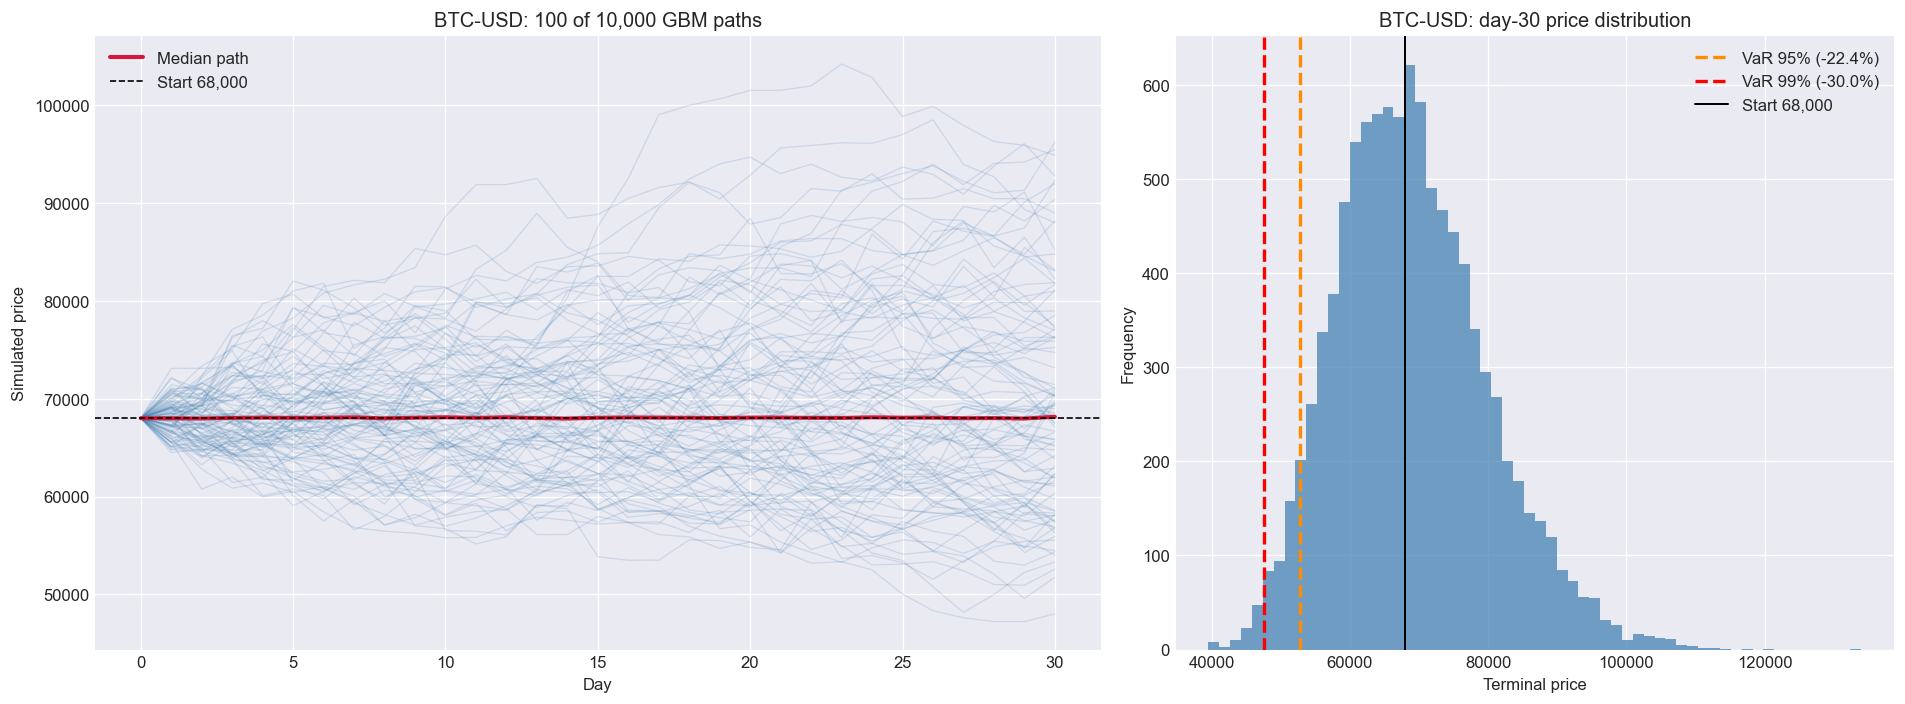
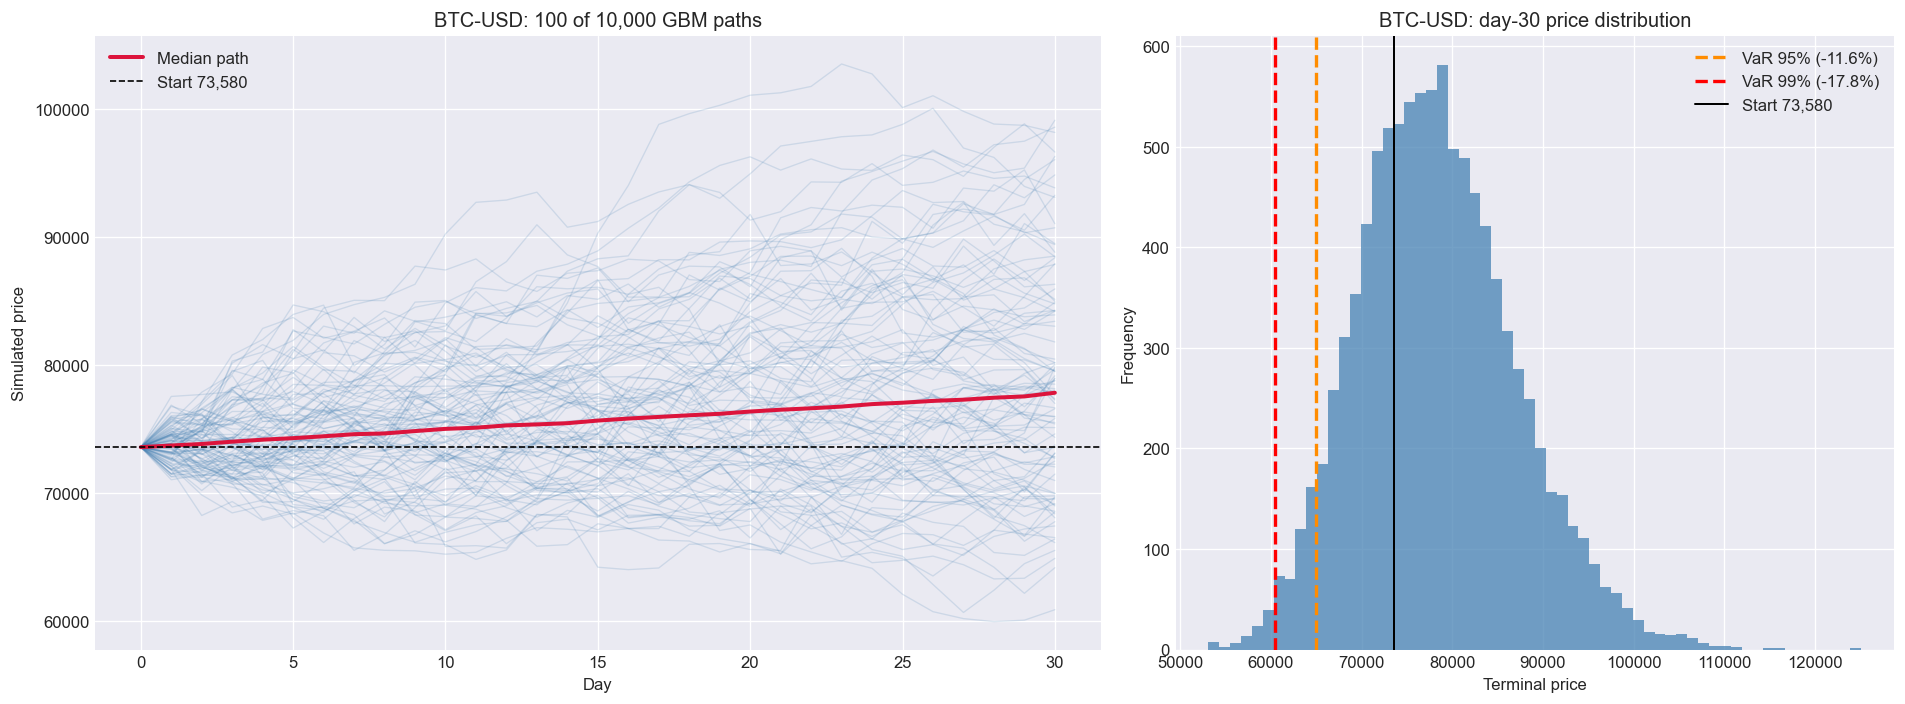
Napraw blokowanie wykresow w main, pelny pipeline warstw 0-3

diff --git a/report.py b/report.py
@@ -1,8 +1,9 @@
-"""Console reporting / CLI entry point for the Layer 2 ML forecasting package.
+"""Full-stack CLI pipeline for the hybrid crypto model (Layers 0–3).
 
-Holds the dependency-free table formatters and the :func:`main` pipeline that
-runs ``CryptoMLPredictor`` end to end and prints a readable report. Kept
-separate from the model logic so the library stays presentation-free.
+Runs data ingestion, statistical analysis (ADF + GARCH plots), ML forecasting,
+financial backtesting, Monte Carlo risk simulation (with plots), and optional
+model persistence. Console tables plus matplotlib figures are produced so the
+project demonstrates every implemented layer in one command.
 """
 
 from __future__ import annotations
@@ -10,12 +11,106 @@ from __future__ import annotations
 import warnings
 from typing import Any
 
+import matplotlib.pyplot as plt
 import numpy as np
 import pandas as pd
 
 from mlbase import DEFAULT_TICKERS
 from model import CryptoMLPredictor
 from risk_management import CryptoMonteCarloSimulator, SimulationResult, suggest_allocation
+from statistical_analysis import CryptoVolatilityModel
+
+
+def _ticker_slug(ticker: str) -> str:
+    """Return a filesystem-safe ticker symbol for plot filenames."""
+    return ticker.replace("-", "_")
+
+
+def _run_data_layer(predictor: CryptoMLPredictor) -> None:
+    """Summarise Layer 0: downloaded market data and engineered series."""
+    print("\n" + "=" * 72)
+    print("Layer 0 — Data (CryptoDataFetcher)")
+    print("=" * 72)
+    print(f"  Tickers   : {', '.join(predictor.tickers)}")
+    print(f"  Interval  : {predictor.interval}")
+    print(f"  Range     : {predictor.start} → {predictor.end}")
+    print(f"  Cache     : {predictor.cache_dir or 'disabled'}")
+
+    if predictor.log_returns is None or predictor.close_prices is None:
+        print("  Status    : data not loaded.")
+        return
+
+    n_rows = len(predictor.log_returns)
+    idx = predictor.log_returns.index
+    print(f"  Rows      : {n_rows} aligned observations")
+    print(f"  Dates     : {idx.min()} → {idx.max()}")
+    print(
+        f"  Last close: "
+        + ", ".join(
+            f"{t}={predictor.close_prices[t].dropna().iloc[-1]:,.2f}"
+            for t in predictor.tickers
+            if t in predictor.close_prices.columns
+        )
+    )
+
+
+def _run_statistical_layer(
+    predictor: CryptoMLPredictor,
+    *,
+    show_plots: bool = True,
+    save_plots: bool = True,
+) -> None:
+    """Run Layer 1: ADF stationarity checks and GARCH volatility charts."""
+    print("\n" + "=" * 72)
+    print("Layer 1 — Statistical Analysis (ADF + GARCH)")
+    print("=" * 72)
+
+    if predictor.log_returns is None:
+        warnings.warn(
+            "Log returns unavailable; skipping Layer 1.",
+            RuntimeWarning,
+            stacklevel=2,
+        )
+        return
+
+    vol_model = CryptoVolatilityModel(
+        predictor.log_returns,
+        trading_days=predictor.periods_per_year,
+    )
+
+    for ticker in predictor.tickers:
+        if ticker not in predictor.log_returns.columns:
+            continue
+
+        print(f"\n--- {ticker} ---")
+        try:
+            vol_model.check_stationarity(predictor.log_returns[ticker])
+            garch_result = vol_model.fit_garch(
+                predictor.log_returns[ticker], ticker=ticker
+            )
+            status = "converged" if garch_result.converged else "NOT converged"
+            print(f"  GARCH(1,1) fit: {status}")
+            latest_vol = garch_result.annualized_volatility.dropna().iloc[-1]
+            print(f"  Latest annualised conditional vol: {latest_vol:.2%}")
+
+            savepath = (
+                f"garch_{_ticker_slug(ticker)}.png" if save_plots else None
+            )
+            fig = vol_model.plot_volatility(
+                ticker,
+                show=show_plots,
+                savepath=savepath,
+            )
+            if not show_plots:
+                plt.close(fig)
+            if savepath:
+                print(f"  Saved chart: {savepath}")
+        except Exception as exc:  # pragma: no cover - plotting is best-effort
+            warnings.warn(
+                f"Layer 1 failed for {ticker} ({exc!r}); continuing.",
+                RuntimeWarning,
+                stacklevel=2,
+            )
 
 
 def _format_metrics(metrics: pd.DataFrame) -> str:
@@ -127,6 +222,9 @@ def _run_risk_layer(
     predictor: CryptoMLPredictor,
     horizon_days: int = 30,
     num_simulations: int = 10_000,
+    *,
+    show_plots: bool = False,
+    save_plots: bool = True,
 ) -> None:
     """Drive the Layer 3 Monte Carlo risk engine from live model outputs.
 
@@ -176,6 +274,28 @@ def _run_risk_layer(
             f"  Inputs: daily mu={mu:+.5f}, annual sigma={sigma:.2%}"
         )
 
+        plot_path = (
+            f"montecarlo_{_ticker_slug(ticker)}.png" if save_plots else None
+        )
+        try:
+            fig = simulator.plot_simulation(
+                result,
+                metrics=metrics,
+                show=show_plots,
+                savepath=plot_path,
+            )
+            if not show_plots:
+                plt.close(fig)
+            if plot_path:
+                print(f"  Saved chart: {plot_path}")
+        except Exception as exc:  # pragma: no cover - plotting is best-effort
+            warnings.warn(
+                f"Monte Carlo plot failed for {ticker} ({exc!r}); "
+                "metrics report unaffected.",
+                RuntimeWarning,
+                stacklevel=2,
+            )
+
     if len(results) >= 2:
         print("\nSuggested allocation from simulated outcomes:")
         for method in ("sharpe", "kelly"):
@@ -184,8 +304,24 @@ def _run_risk_layer(
             print(f"  {method.capitalize():7s}: {split}")
 
 
-def main() -> None:
-    """Run the full Layer 2 ML forecasting pipeline."""
+def main(*, show_plots: bool = False) -> None:
+    """Run the complete hybrid model pipeline (Layers 0–3) with visualisations.
+
+    Parameters
+    ----------
+    show_plots:
+        When ``True``, open blocking matplotlib windows after each chart.
+        Default is ``False``: charts are saved to PNG only so the full
+        console report runs without waiting for window closes.
+    """
+    print("=" * 72)
+    print("Crypto Hybrid Model — Full Pipeline")
+    print("=" * 72)
+    if show_plots:
+        print("(Interactive charts enabled — close each window to continue.)")
+    else:
+        print("(Charts saved to PNG; use --show-plots to open interactive windows.)")
+
     predictor = CryptoMLPredictor(
         tickers=DEFAULT_TICKERS,
         start="2020-01-01",
@@ -196,9 +332,17 @@ def main() -> None:
     )
     predictor.train_all()
 
+    _run_data_layer(predictor)
+    _run_statistical_layer(
+        predictor, show_plots=show_plots, save_plots=True
+    )
+
+    print("\n" + "=" * 72)
+    print("Layer 2 — Machine Learning (XGBoost / TimeSeriesSplit)")
     print("=" * 72)
-    print("Layer 2 ML Forecasting Metrics")
-    print("=" * 72)
+    print()
+    print("ML Forecasting Metrics")
+    print("-" * 72)
     print(_format_metrics(predictor.metrics_table()))
     print()
 
@@ -258,7 +402,13 @@ def main() -> None:
         mu = predictor.predict_next_day_return(ticker)
         print(f"{ticker}: {mu:.6f}")
 
-    _run_risk_layer(predictor)
+    _run_risk_layer(predictor, show_plots=show_plots, save_plots=True)
+
+    print("\n" + "=" * 72)
+    print("Pipeline complete")
+    print("=" * 72)
+    print("  Charts: garch_BTC_USD.png, garch_ETH_USD.png,")
+    print("          montecarlo_BTC_USD.png, montecarlo_ETH_USD.png")
 
     try:
         predictor.save_models("models_artifacts")
@@ -294,4 +444,13 @@ def main() -> None:
 
 
 if __name__ == "__main__":
-    main()
+    import argparse
+
+    parser = argparse.ArgumentParser(description="Crypto hybrid model full pipeline")
+    parser.add_argument(
+        "--show-plots",
+        action="store_true",
+        help="Open matplotlib windows (blocks until each chart is closed).",
+    )
+    args = parser.parse_args()
+    main(show_plots=args.show_plots)

diff --git a/main.py b/main.py
@@ -1,14 +1,28 @@
 """Top-level entry point for the Crypto Hybrid Model project.
 
-Running this file executes the full three-layer pipeline:
+Running this file executes the full pipeline with console reports and plots:
   Layer 0 -- data acquisition and log-return computation
-  Layer 1 -- GARCH(1,1) stationarity check and conditional volatility
+  Layer 1 -- ADF + GARCH(1,1) volatility charts
   Layer 2 -- ML forecasting, financial backtesting and walk-forward validation
+  Layer 3 -- Monte Carlo risk simulation (VaR/CVaR) with charts
+
+By default charts are saved to PNG without opening windows. Pass --show-plots
+to display interactive matplotlib figures (each window must be closed to continue).
 """
 
 from __future__ import annotations
 
-from report import main
+import argparse
+
+from report import main as run_pipeline
+
 
 if __name__ == "__main__":
-    main()
+    parser = argparse.ArgumentParser(description="Crypto hybrid model full pipeline")
+    parser.add_argument(
+        "--show-plots",
+        action="store_true",
+        help="Open matplotlib windows (blocks until each chart is closed).",
+    )
+    args = parser.parse_args()
+    run_pipeline(show_plots=args.show_plots)

diff --git a/statistical_analysis.py b/statistical_analysis.py
@@ -358,7 +358,10 @@ class CryptoVolatilityModel:
     # ------------------------------------------------------------------
 
     def plot_volatility(
-        self, ticker: str, show: bool = True
+        self,
+        ticker: str,
+        show: bool = True,
+        savepath: str | None = None,
     ) -> plt.Figure:
         """Render a two-panel chart for ``ticker``.
 
@@ -371,6 +374,8 @@ class CryptoVolatilityModel:
             Column name to plot. GARCH is fitted on demand if needed.
         show:
             If ``True``, call ``plt.show()`` before returning.
+        savepath:
+            Optional path to save the figure as an image (e.g. PNG).
 
         Returns
         -------
@@ -454,6 +459,8 @@ class CryptoVolatilityModel:
             )
             fig.tight_layout(rect=(0, 0, 1, 0.97))
 
+        if savepath is not None:
+            fig.savefig(savepath, dpi=120, bbox_inches="tight")
         if show:
             plt.show()
         return fig

diff --git a/README.md b/README.md
@@ -90,8 +90,12 @@ pip install -r requirements.txt
 ### 3. Uruchom rurociąg (pipeline)
 
 ```powershell
-# Z głównego folderu projektu:
+# Z głównego folderu projektu (pełny raport + zapis wykresów PNG, bez blokowania):
 python main.py
+
+# Opcjonalnie: okna matplotlib (trzeba zamykać każdy wykres, żeby iść dalej):
+python main.py --show-plots
+
 # lub używając oryginalnego punktu wejścia:
 python ml_forecasting.py
 ```
@@ -107,7 +111,14 @@ python risk_management.py
 
 ## Raport i Wyjście (Output)
 
-Standardowe uruchomienie `main.py` generuje w konsoli 8 sekcji:
+Standardowe uruchomienie `main.py` uruchamia **cały pipeline** (konsola + wykresy):
+
+0. **Warstwa 0 — Dane** — tickery, zakres dat, cache, ostatnie ceny  
+1. **Warstwa 1 — Statystyka** — ADF, status GARCH, wykresy `garch_*.png`  
+2. **Warstwa 2 — ML** — metryki, feature importances, backtest, walk-forward  
+3. **Warstwa 3 — Ryzyko** — Monte Carlo, VaR/CVaR, wykresy `montecarlo_*.png`
+
+Szczegółowe sekcje tekstowe (ML i finanse):
 
 1. **Layer 2 ML Forecasting Metrics** — metryki MAE i R² (dla każdego foldu i uśrednione)
 2. **Feature Importances** — waga i wpływ cech na decyzyjność modelu XGBoost